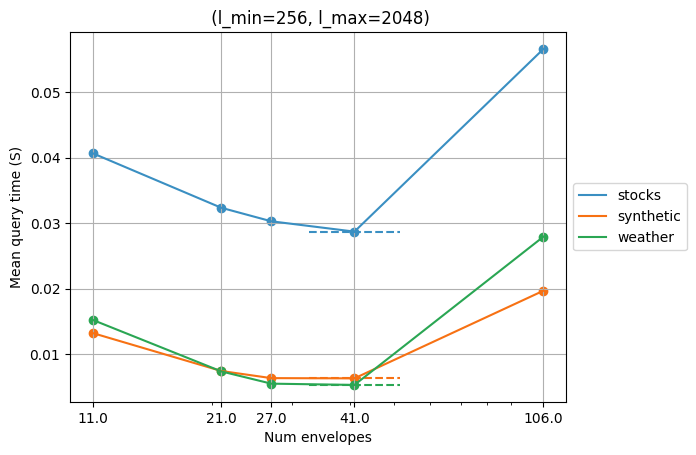
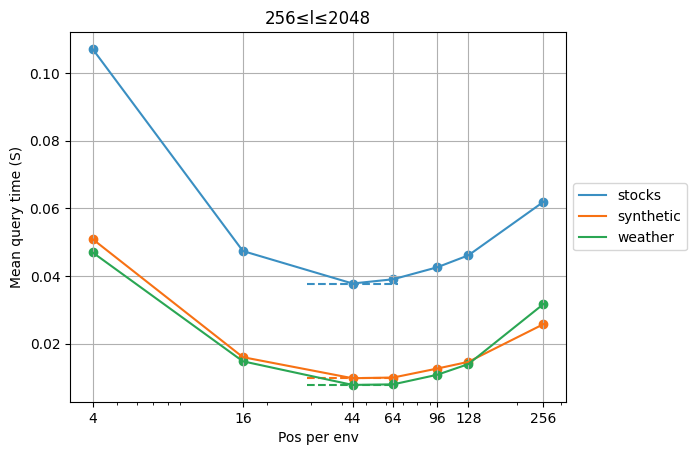
findings update

diff --git a/scripts/py/visualization/experiment_analysis.py b/scripts/py/visualization/experiment_analysis.py
@@ -655,6 +655,7 @@ Experiment: Segmentation strategy
 def experiment_segmentation_strategy(target_args_dict: dict, reducer: Reducer):
     visualize_experiments(
         logs_dirs=["EXPERIMENT_LOGS/combined_param/LOGS_2_ppe_univariate"],
+        # logs_dirs=["EXPERIMENT_LOGS/combined_param/LOGS_2_position_group_univariate_2048"],
         groups_dict={
             ERD.DATASETS_COLS: [DSC.DATASET_FILE, DSC.SERIES_LENGTH],
             ERD.INDEXES_COLS: [ISC.POS_PER_ENV],

diff --git a/docs/findings_log.md b/docs/findings_log.md
@@ -289,3 +289,13 @@ $$
     - [ ] Assess channel difficulty based on **inter-variation** and **intra-variation**:
         - Low inter-variation $=$ small average envelope ranges $\Leftrightarrow$ tighter and therefore more discriminative envelope $\Leftrightarrow$ higher pruning power $\Leftrightarrow$ lower runtime
         - High intra-variation $=$ more distinct envelopes, measured e.g. through cross-dataset variance of the mean and variance of lower and upper envelope bounds $\Leftrightarrow$ highly distinguishable envelopes $\Leftrightarrow$ higher pruning power $\Leftrightarrow$ lower runtime
+
+## 28-05-2025
+
+- [ ] Redo clairvoyant experiments for raw
+    - [ ] Also try even stricter distribution
+- [ ] Implement and test WeightBasedChSegmentationStrategy
+    - [ ] Also for raw time series
+    - [ ] Test (cited) functions for distributing segments across channels
+- [ ] Threshold for single channel segments
+    - [ ] Simple upper limit

diff --git a/docs/summaries/parametrization-14-05-2025.md b/docs/summaries/parametrization-14-05-2025.md
@@ -111,7 +111,7 @@ Optimal value of $N_p$ slowly goes up with $m$, however $N_p\approx32$ is always
 | ![](images/Parametrization/2_Np_256-2048.png) | ![](images/Parametrization/2_Np_512-4096.png) |
 
 - TODO:
-    - [ ] Parametrize with exact number of positions per envelope
+    - [ ] Parametrize with exact number of positions per envelope (experiments finished for $n\in\{1024,2048\}$, running for $n=4096$)
 
 ___
 ### Experiments to include:
